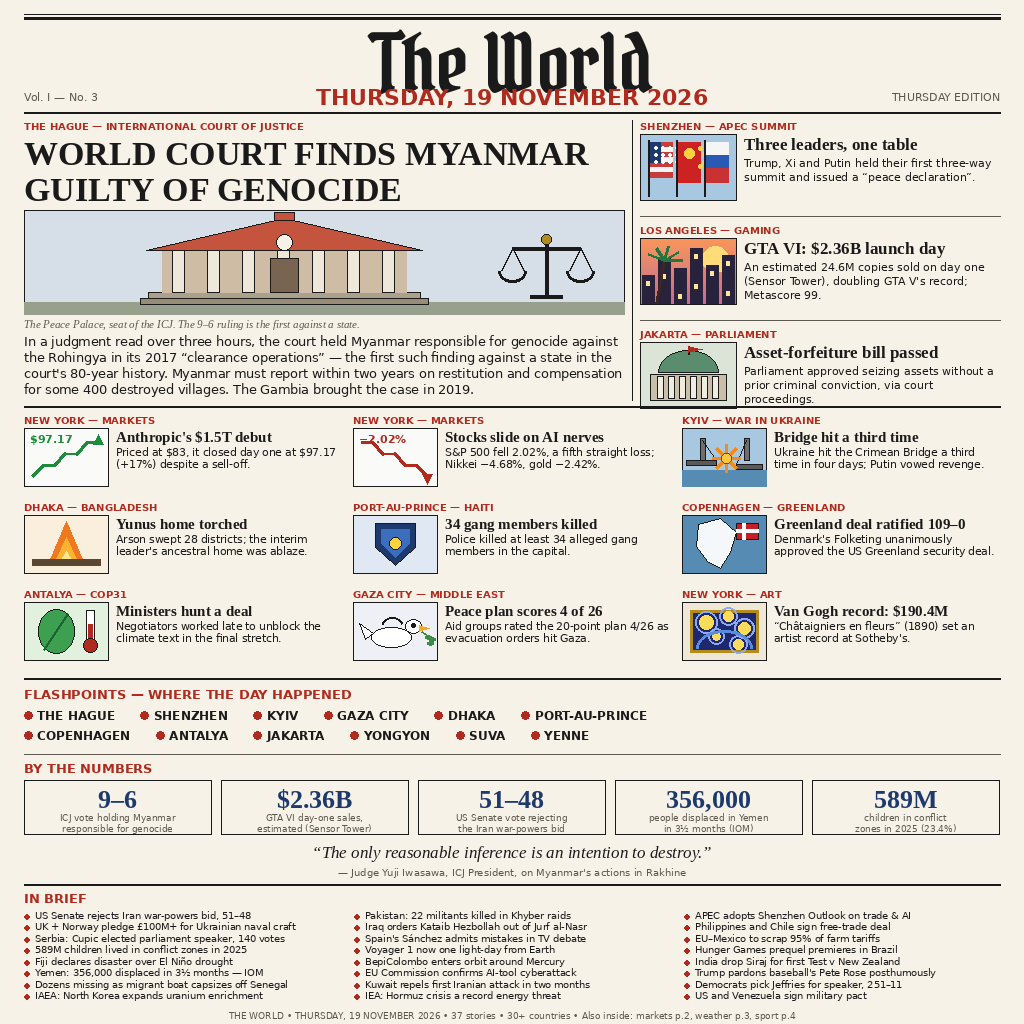
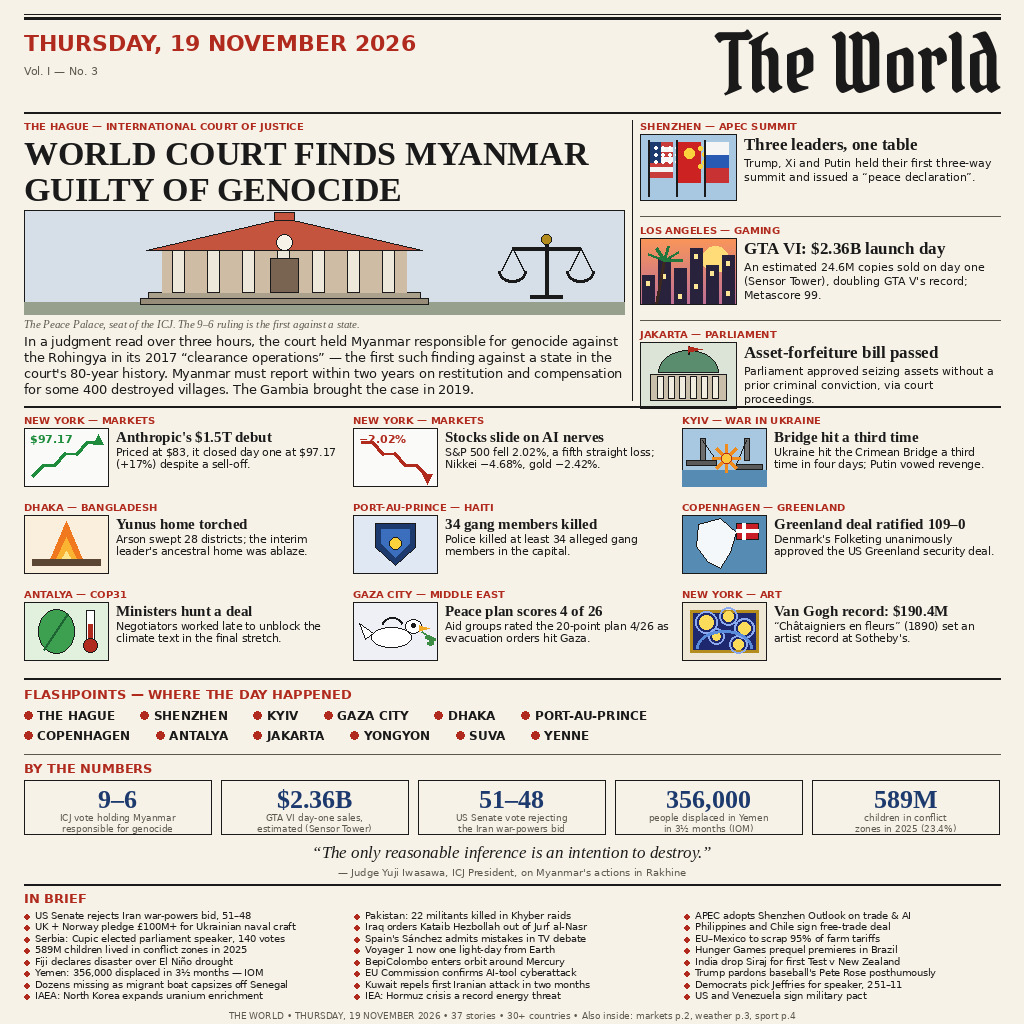
Masthead: The World top-right, date on the left

Changed region(s): [[0.0312, 0.0312, 1.0, 0.125]]

diff --git a/draw_poster.py b/draw_poster.py
@@ -291,13 +291,11 @@ def illo_painting(x, y, w, h):
 rule(M, W - M, 14, 1)
 rule(M, W - M, 18, 3)
 mast = F(BLACKLETTER, 80)
-d.text(((W - tw("The World", mast)) / 2, 12), "The World", font=mast, fill=INK)
-d.text((M, 90), "Vol. I — No. 3", font=F(SANS, 11), fill=GREY)
+d.text((W - M - tw("The World", mast), 12), "The World", font=mast, fill=INK)
 dateline = "THURSDAY, 19 NOVEMBER 2026"
 dfont = F(SANS_B, 22)
-d.text(((W - tw(dateline, dfont)) / 2, 84), dateline, font=dfont, fill=RED)
-rtext = "THURSDAY EDITION"
-d.text((W - M - tw(rtext, F(SANS, 11)), 90), rtext, font=F(SANS, 11), fill=GREY)
+d.text((M, 30), dateline, font=dfont, fill=RED)
+d.text((M, 64), "Vol. I — No. 3", font=F(SANS, 11), fill=GREY)
 rule(M, W - M, 112, 2)
 
 # ---------------------------------------------------------------- lead story
